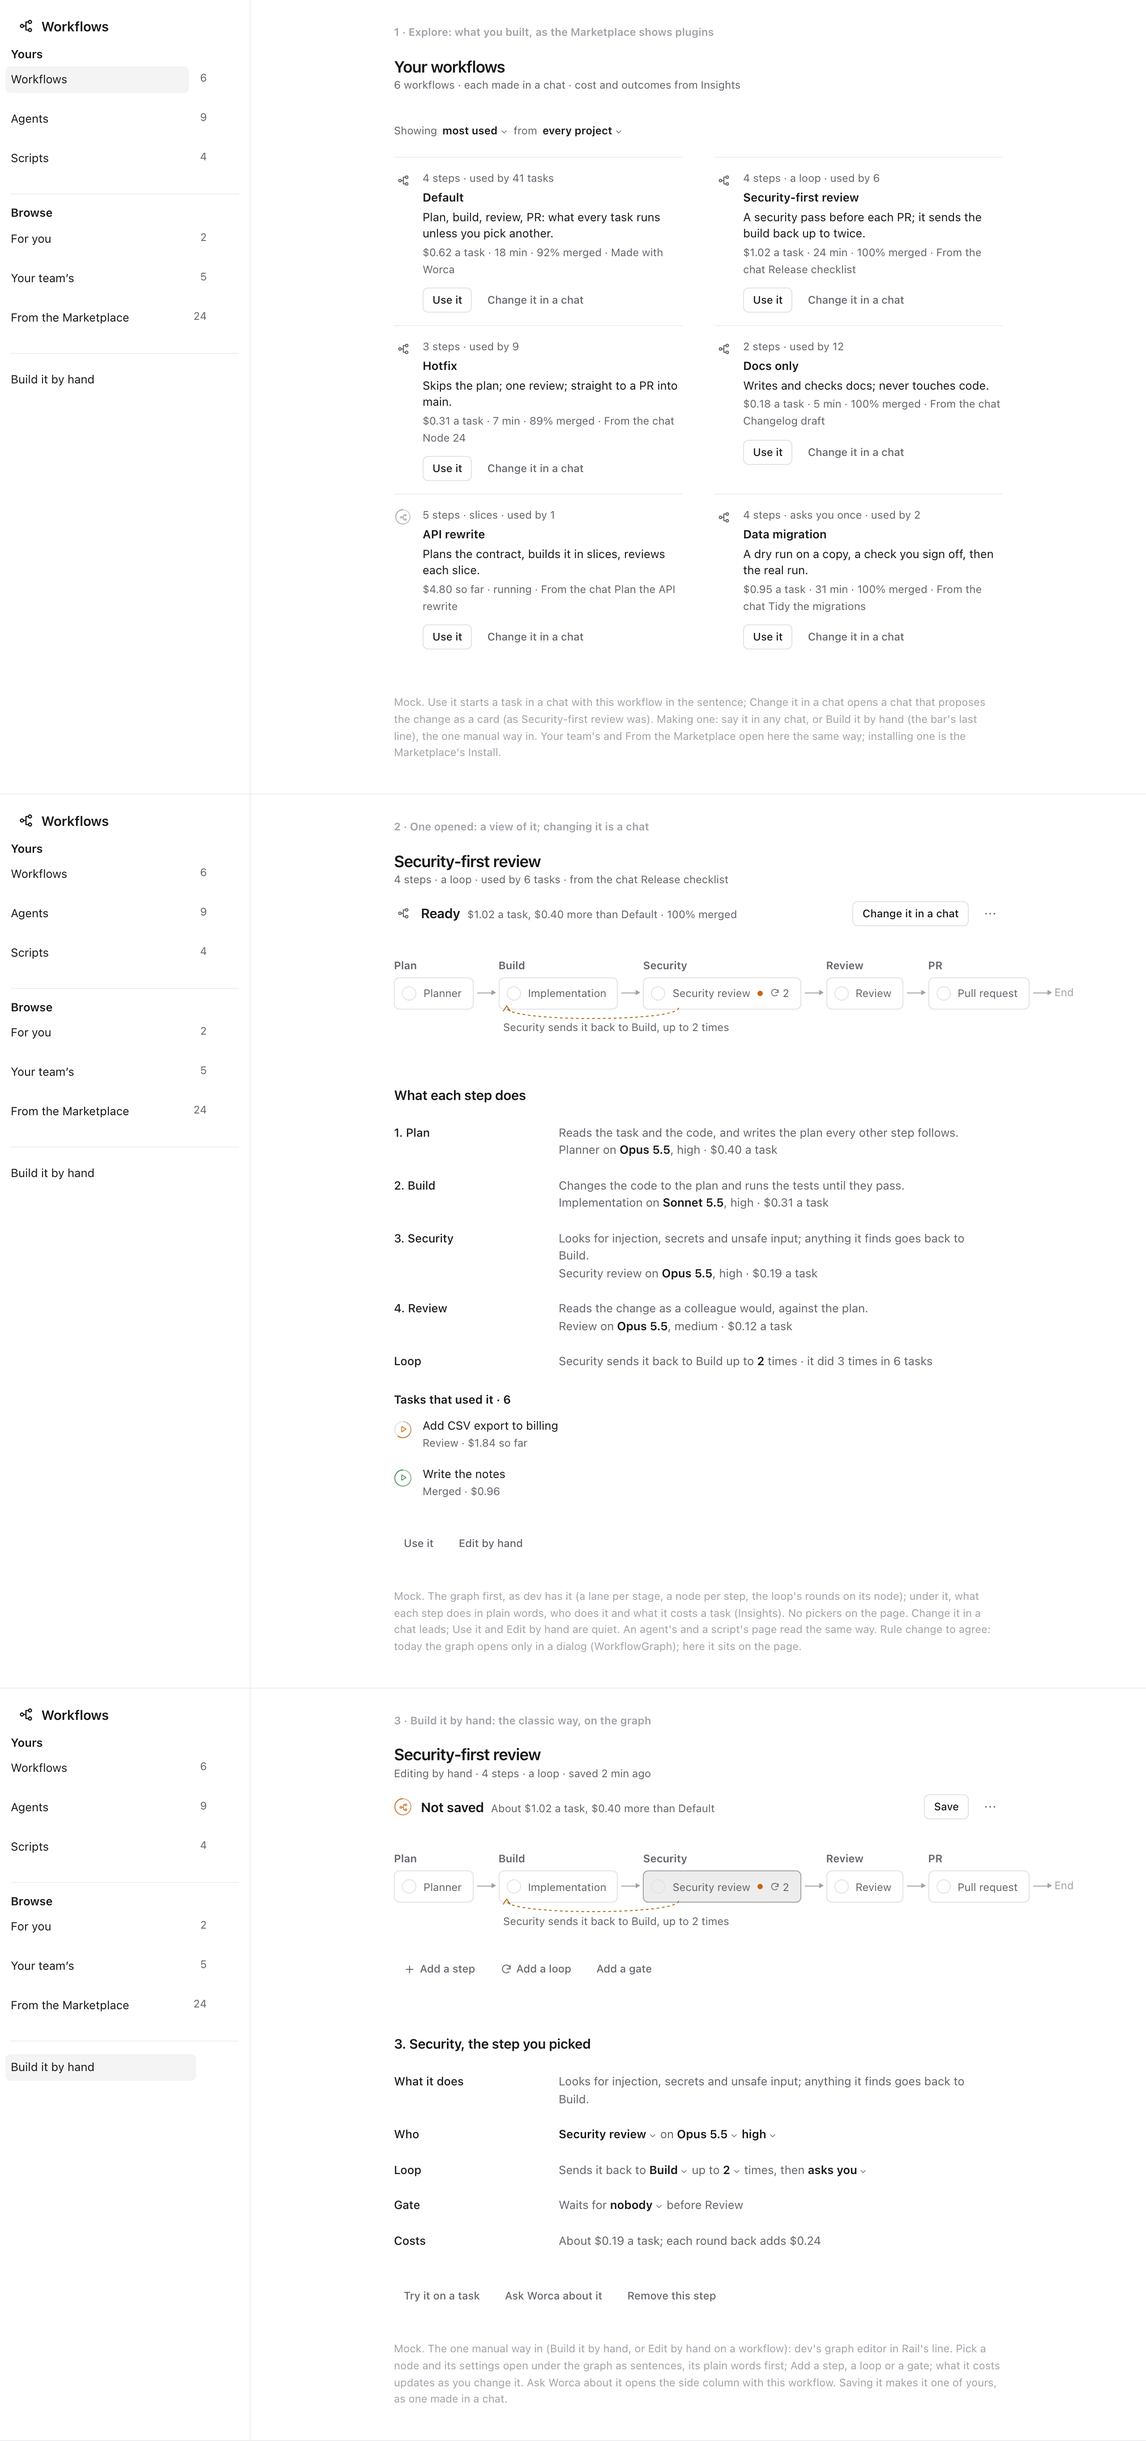
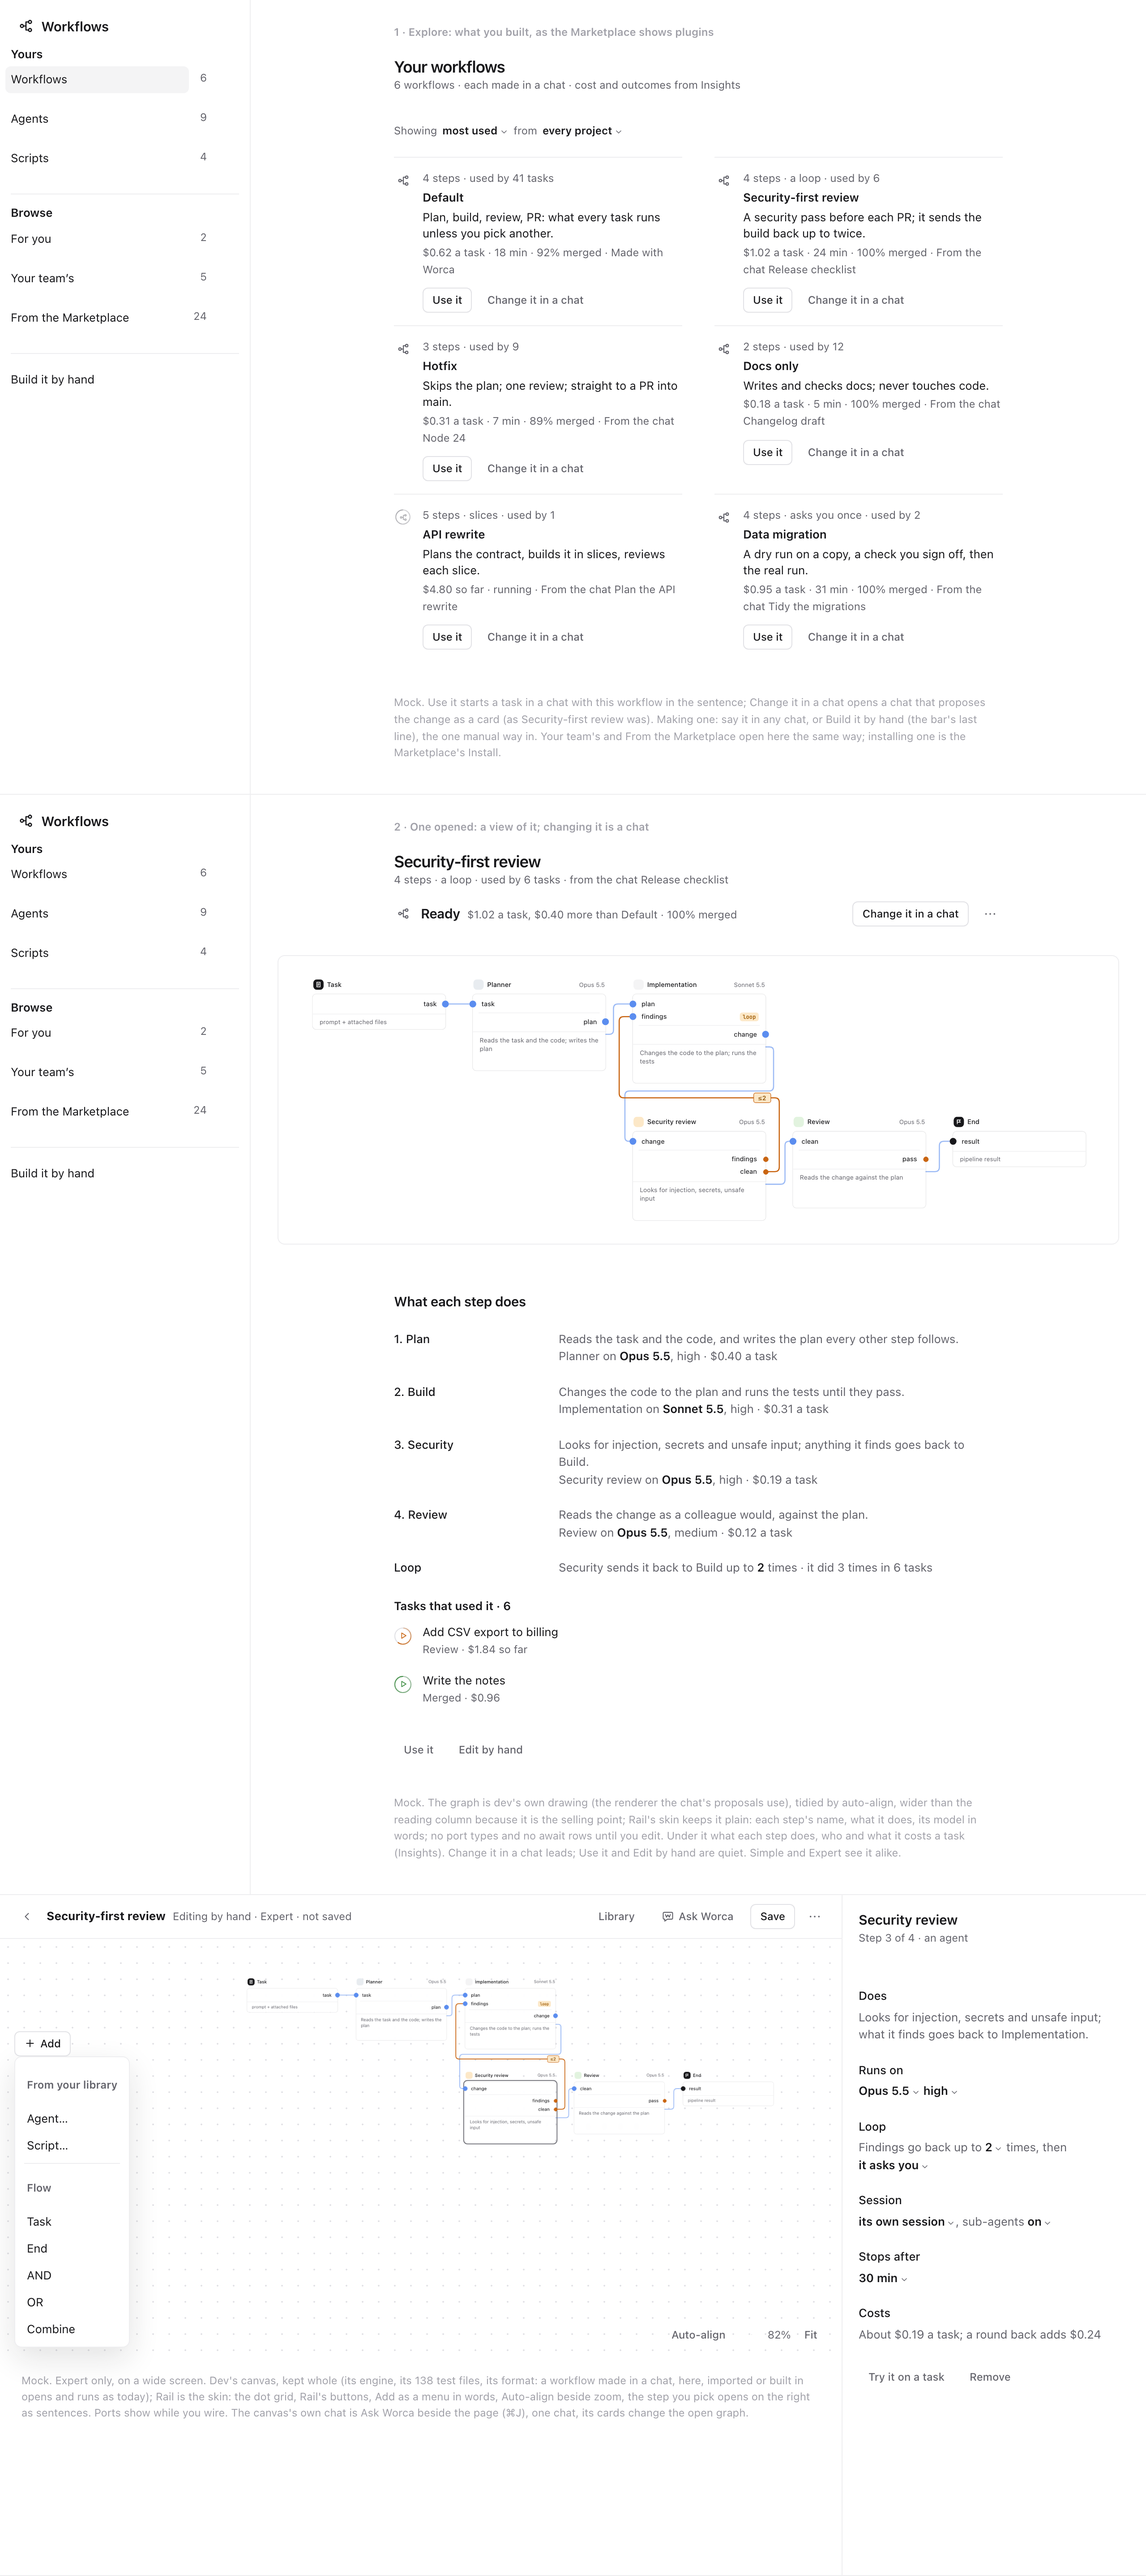
Wave 3: the Workflows mock on dev's own graph renderer: the graph large on a workflow's page in plain words, and the Expert canvas in Rail's skin with Add, Auto-align and the picked step as sentences

diff --git a/plans/rail/mocks/wave-3/workflows-2.html b/plans/rail/mocks/wave-3/workflows-2.html
@@ -10,6 +10,7 @@
 <link rel="stylesheet" href="../../prototype/design-system/rail-look.css">
 <link rel="stylesheet" href="../../prototype/design-system/rail.css">
 <link rel="stylesheet" href="../../prototype/shell/shell.css">
+<link rel="stylesheet" href="../../../../ui/public/workflows/node-graph.css">
 <style>
   body{margin:0;background:var(--bg);color:var(--ink);font-family:var(--sans);}
   #m{width:1280px;}
@@ -23,18 +24,24 @@
   .cap{margin:0 0 4px;font:600 12px/1.4 var(--sans);color:var(--ink-3);}
   .note{margin:22px 0 0;font-size:12px;color:var(--ink-3);}
   .acts{display:flex;gap:6px;margin:14px 0 0;}
-  /* proposed: WorkflowGraph's flow variant, left to right as dev draws it: a stage a column, an arrow between, the loop back */
-  .flow{position:relative;padding:4px 0 34px;}
-  .flow .wg-stages{flex-direction:row;gap:28px;align-items:flex-start;}
-  .flow .wg-stage{flex:none;gap:6px;} .flow .wg-stage + .wg-stage{border-top:0;padding-top:0;position:relative;}
-  .flow .wg-stage + .wg-stage::before{content:'';position:absolute;left:-24px;top:38px;width:20px;border-top:1px solid var(--ink-3);}
-  .flow .wg-stage + .wg-stage::after{content:'';position:absolute;left:-8px;top:35px;border:3.5px solid transparent;border-left:5px solid var(--ink-3);}
-  .flow .wg-end .wg-l{margin-top:30px;color:var(--ink-3);font-weight:400;}
-  .flow .loop{position:absolute;bottom:4px;font-size:var(--fs-meta);color:var(--ink-2);display:flex;align-items:center;gap:4px;}
-  .flow .loop svg{position:absolute;bottom:14px;left:0;overflow:visible;}
+  /* dev's graph (ui/public/graph/view.mjs) in Rail's skin: a wide well, plain words (no port types, no await rows) */
+  .well{position:relative;height:auto;padding:0;margin:18px -130px 8px;border-radius:var(--r-md);background:var(--panel);border:1px solid var(--line);overflow:hidden;}
+  .skin .prow .pt,.skin .prow.gate,.skin.view .cond{display:none;}
+  .skin .node.is-picked{outline:2px solid var(--ink-2);outline-offset:3px;border-radius:var(--r-sm);}
+  .fr.ed{grid-template-columns:1fr 340px;}
+  .ed-top{display:flex;align-items:center;gap:8px;padding:10px 16px;border-bottom:1px solid var(--line);font-size:var(--fs-meta);color:var(--ink-2);}
+  .ed-top b{color:var(--ink);font-size:var(--fs-body);} .ed-top .sp{flex:1;}
+  .canvas{position:relative;height:470px;background-image:radial-gradient(var(--line-2) 1px,transparent 1px);background-size:18px 18px;}
+  .canvas .gv{position:absolute;left:250px;top:24px;width:640px;}
+  .ed-tools{position:absolute;right:16px;bottom:14px;display:flex;gap:4px;align-items:center;font-size:var(--fs-meta);color:var(--ink-2);}
+  .ed-add{position:absolute;left:16px;bottom:14px;}
+  .ed-add .cmenu,.ed-add .compact-menu{position:absolute;left:0;bottom:40px;min-width:220px;}
+  .insp{border-left:1px solid var(--line);padding:18px 18px 24px;}
+  .insp h2{margin:0 0 2px;font:600 var(--fs-section)/1.3 var(--sans);} .insp .m{margin:0 0 12px;font-size:var(--fs-meta);color:var(--ink-2);}
 </style></head>
 <body><div id="m"></div>
 <script src="../../prototype/components.js"></script>
+<script src="graph-mock.js"></script>
 <script>
   const R = window.RailUI;
   const row = (title, mark, end, cur = false) => R.listRow({ title, mark, endText: end, open: { 'data-x': title }, current: cur });
@@ -55,27 +62,21 @@
     <div class="sent">Showing ${R.sentencePicker({ id: 's', text: 'most used', items: [], chevron: R.icon('chevron', 10) })} from ${R.sentencePicker({ id: 'f', text: 'every project', items: [], chevron: R.icon('chevron', 10) })}</div>
     <div class="pg-grid">${cards}</div>
     <p class="note">Mock. Use it starts a task in a chat with this workflow in the sentence; Change it in a chat opens a chat that proposes the change as a card (as Security-first review was). Making one: say it in any chat, or Build it by hand (the bar's last line), the one manual way in. Your team's and From the Marketplace open here the same way; installing one is the Marketplace's Install.</p></div>`;
-  // the graph: a lane per stage, a node per step, the loop's rounds on its node (WorkflowGraph)
-  const graph = (sel) => `<div class="flow">${R.workflowGraph({ label: 'Security-first review', stages: [
-    { label: 'Plan', nodes: [{ key: 'p', name: 'Planner', state: 'next', selected: sel === 'p' }] },
-    { label: 'Build', nodes: [{ key: 'b', name: 'Implementation', state: 'next', selected: sel === 'b' }] },
-    { label: 'Security', nodes: [{ key: 's', name: 'Security review', state: 'next', loops: 2, gate: true, selected: sel === 's' }] },
-    { label: 'Review', nodes: [{ key: 'r', name: 'Review', state: 'next', selected: sel === 'r' }] },
-    { label: 'PR', nodes: [{ key: 'pr', name: 'Pull request', state: 'next', selected: sel === 'pr' }] }], end: 'End' })}<span class="loop" style="left:122px"><svg width="200" height="20" aria-hidden="true"><path d="M196 2 C196 18 4 18 4 2" fill="none" stroke="var(--amber-ink)" stroke-dasharray="3 3"/><path d="M0 6 L4 0 L8 6" fill="none" stroke="var(--amber-ink)"/></svg>Security sends it back to Build, up to 2 times</span></div>`;
   // each step: what it does, in plain words, then who does it and what it costs a task
   const step = (n, name, does, who, m, e, cost) => R.settingsRow({ name: `${n}. ${name}`, sentence: `${does}<br><span style="color:var(--ink-2)">${who} on <b>${m}</b>, ${e} · ${cost} a task</span>` });
   const page = `<div class="col convo-col" style="margin:0"><p class="cap">2 · One opened: a view of it; changing it is a chat</p>${R.placeHead({ title: 'Security-first review', facts: '4 steps · a loop · used by 6 tasks · from the chat Release checklist', mark: wf(), word: 'Ready', why: '$1.02 a task, $0.40 more than Default · 100% merged', action: R.button({ label: 'Change it in a chat', kind: '' }), menu: R.moreMenu({ id: 'x', label: 'More', icon: R.icon('more', 16), open: false, items: [] }) })}
-    <div style="margin:18px 0 6px">${graph('')}</div>
+    <div class="well skin view" id="gv-view"></div>
     ${R.settingsSection({ title: 'What each step does', rows: step(1, 'Plan', 'Reads the task and the code, and writes the plan every other step follows.', 'Planner', 'Opus 5.5', 'high', '$0.40') + step(2, 'Build', 'Changes the code to the plan and runs the tests until they pass.', 'Implementation', 'Sonnet 5.5', 'high', '$0.31') + step(3, 'Security', 'Looks for injection, secrets and unsafe input; anything it finds goes back to Build.', 'Security review', 'Opus 5.5', 'high', '$0.19') + step(4, 'Review', 'Reads the change as a colleague would, against the plan.', 'Review', 'Opus 5.5', 'medium', '$0.12') + R.settingsRow({ name: 'Loop', sentence: 'Security sends it back to Build up to <b>2</b> times · it did 3 times in 6 tasks' }) })}
     ${R.list({ groups: [{ title: 'Tasks that used it · 6', rows: [R.listRow({ title: 'Add CSV export to billing', meta: 'Review · $1.84 so far', mark: R.kindMark({ kind: 'task', tone: 'ask', stage: 2 }), open: {} }), R.listRow({ title: 'Write the notes', meta: 'Merged · $0.96', mark: R.kindMark({ kind: 'task', tone: 'ok', stage: 4 }), open: {} })] }] })}
     <div class="acts">${R.button({ label: 'Use it', kind: 'quiet' })}${R.button({ label: 'Edit by hand', kind: 'quiet' })}</div>
-    <p class="note">Mock. The graph first, as dev has it (a lane per stage, a node per step, the loop's rounds on its node); under it, what each step does in plain words, who does it and what it costs a task (Insights). No pickers on the page. Change it in a chat leads; Use it and Edit by hand are quiet. An agent's and a script's page read the same way. Rule change to agree: today the graph opens only in a dialog (WorkflowGraph); here it sits on the page.</p></div>`;
+    <p class="note">Mock. The graph is dev's own drawing (the renderer the chat's proposals use), tidied by auto-align, wider than the reading column because it is the selling point; Rail's skin keeps it plain: each step's name, what it does, its model in words; no port types and no await rows until you edit. Under it what each step does, who and what it costs a task (Insights). Change it in a chat leads; Use it and Edit by hand are quiet. Simple and Expert see it alike.</p></div>`;
   const pick = (t) => R.sentencePicker({ id: t, text: t, items: [], chevron: R.icon('chevron', 10) });
-  const build = `<div class="col convo-col" style="margin:0"><p class="cap">3 · Build it by hand: the classic way, on the graph</p>${R.placeHead({ title: 'Security-first review', facts: 'Editing by hand · 4 steps · a loop · saved 2 min ago', mark: wf('act'), word: 'Not saved', why: 'About $1.02 a task, $0.40 more than Default', action: R.button({ label: 'Save', kind: '' }), menu: R.moreMenu({ id: 'y', label: 'More', icon: R.icon('more', 16), open: false, items: [] }) })}
-    <div style="margin:18px 0 6px">${graph('s')}</div>
-    <div class="acts" style="margin:6px 0 14px">${R.button({ label: 'Add a step', kind: 'quiet', icon: R.icon('plus', 13) })}${R.button({ label: 'Add a loop', kind: 'quiet', icon: R.icon('refresh', 13) })}${R.button({ label: 'Add a gate', kind: 'quiet' })}</div>
-    ${R.settingsSection({ title: '3. Security, the step you picked', rows: R.settingsRow({ name: 'What it does', sentence: 'Looks for injection, secrets and unsafe input; anything it finds goes back to Build.' }) + R.settingsRow({ name: 'Who', sentence: `${pick('Security review')} on ${pick('Opus 5.5')} ${pick('high')}` }) + R.settingsRow({ name: 'Loop', sentence: `Sends it back to ${pick('Build')} up to ${pick('2')} times, then ${pick('asks you')}` }) + R.settingsRow({ name: 'Gate', sentence: `Waits for ${pick('nobody')} before Review` }) + R.settingsRow({ name: 'Costs', sentence: 'About $0.19 a task; each round back adds $0.24' }) })}
-    <div class="acts">${R.button({ label: 'Try it on a task', kind: 'quiet' })}${R.button({ label: 'Ask Worca about it', kind: 'quiet' })}${R.button({ label: 'Remove this step', kind: 'quiet' })}</div>
-    <p class="note">Mock. The one manual way in (Build it by hand, or Edit by hand on a workflow): dev's graph editor in Rail's line. Pick a node and its settings open under the graph as sentences, its plain words first; Add a step, a loop or a gate; what it costs updates as you change it. Ask Worca about it opens the side column with this workflow. Saving it makes it one of yours, as one made in a chat.</p></div>`;
-  document.getElementById('m').innerHTML = `<div class="fr"><aside class="bar pz-app rail-page">${bar('w')}</aside><main class="main">${browse}</main></div><div class="fr"><aside class="bar pz-app rail-page">${bar('')}</aside><main class="main">${page}</main></div><div class="fr"><aside class="bar pz-app rail-page">${bar('h')}</aside><main class="main">${build}</main></div>`;
+  const addMenu = R.compactMenu({ label: 'Add', items: [{ header: 'From your library' }, { id: 'a', text: 'Agent…', help: '9 yours, 24 more in the Marketplace' }, { id: 's', text: 'Script…', help: '4 yours' }, { sep: true }, { header: 'Flow' }, { id: 't', text: 'Task', help: 'Where the task comes in' }, { id: 'e', text: 'End', help: 'What it comes to' }, { id: 'and', text: 'AND', help: 'Waits for every input' }, { id: 'or', text: 'OR', help: 'Goes on with the first' }, { id: 'c', text: 'Combine', help: 'Joins inputs into one' }] });
+  const editor = `<div><div class="ed-top">${R.button({ label: 'Back to Security-first review', kind: 'quiet', iconOnly: true, icon: R.icon('chevL', 14) })}<b>Security-first review</b><span>Editing by hand · Expert · not saved</span><span class="sp"></span>${R.button({ label: 'Library', kind: 'quiet' })}${R.button({ label: 'Ask Worca', kind: 'quiet', icon: R.icon('ask-worca', 14) })}${R.button({ label: 'Save', kind: '' })}${R.moreMenu({ id: 'z', label: 'More', icon: R.icon('more', 16), open: false, items: [] })}</div>
+    <div class="canvas"><div class="gv skin edit" id="gv-edit"></div><div class="ed-add">${R.button({ label: 'Add', kind: '', icon: R.icon('plus', 13) })}${addMenu}</div><div class="ed-tools">${R.button({ label: 'Auto-align', kind: 'quiet' })}${R.button({ label: 'Zoom out', kind: 'quiet', iconOnly: true, icon: R.icon('x', 1) })}<span>82%</span>${R.button({ label: 'Fit', kind: 'quiet' })}</div></div>
+    <p class="note" style="margin:14px 24px">Mock. Expert only, on a wide screen. Dev's canvas, kept whole (its engine, its 138 test files, its format: a workflow made in a chat, here, imported or built in opens and runs as today); Rail is the skin: the dot grid, Rail's buttons, Add as a menu in words, Auto-align beside zoom, the step you pick opens on the right as sentences. Ports show while you wire. The canvas's own chat is Ask Worca beside the page (⌘J), one chat, its cards change the open graph.</p></div>`;
+  const insp = `<aside class="insp"><h2>Security review</h2><p class="m">Step 3 of 4 · an agent</p>${R.settingsSection({ rows: R.settingsRow({ name: 'Does', sentence: 'Looks for injection, secrets and unsafe input; what it finds goes back to Implementation.' }) + R.settingsRow({ name: 'Runs on', sentence: `${pick('Opus 5.5')} ${pick('high')}` }) + R.settingsRow({ name: 'Loop', sentence: `Findings go back up to ${pick('2')} times, then ${pick('it asks you')}` }) + R.settingsRow({ name: 'Session', sentence: `${pick('its own session')}, sub-agents ${pick('on')}` }) + R.settingsRow({ name: 'Stops after', sentence: `${pick('30 min')}` }) + R.settingsRow({ name: 'Costs', sentence: 'About $0.19 a task; a round back adds $0.24' }) })}<div class="acts">${R.button({ label: 'Try it on a task', kind: 'quiet' })}${R.button({ label: 'Remove', kind: 'quiet' })}</div></aside>`;
+  document.getElementById('m').innerHTML = `<div class="fr"><aside class="bar pz-app rail-page">${bar('w')}</aside><main class="main">${browse}</main></div><div class="fr"><aside class="bar pz-app rail-page">${bar('')}</aside><main class="main">${page}</main></div><div class="fr ed">${editor}${insp}</div>`;
+  mockGraph(document.getElementById('gv-view'), { width: 940 });
+  mockGraph(document.getElementById('gv-edit'), { width: 640, mode: 'edit', select: 'n_sec' });
 </script></body></html>

diff --git a/plans/rail/wave-3.md b/plans/rail/wave-3.md
@@ -291,3 +291,8 @@ workflow format for a chat, the canvas and Import/Export, every saved and built-
 and the engine and its tests are kept, with Rail as its skin.
 5. Auto-align (Emil, 8 Nov) stays: dev's Auto-layout tidies the canvas in one click; in Rail it is one quiet button
    beside zoom, and the view always opens aligned.
+
+Selling point (Emil, 8 Nov): workflows and the graph sell Worca. The graph is shown large to everyone (a workflow's page,
+a chat's proposal, a task card), drawn by dev's renderer in Rail's skin; only editing by hand is Expert. Mock workflows-2
+redone: frame 2 on dev's renderer (wider than the reading column, plain words), frame 3 the Expert canvas (Add as a menu
+in words, Auto-align beside zoom, the picked step as sentences on the right, Ask Worca as the one chat).
